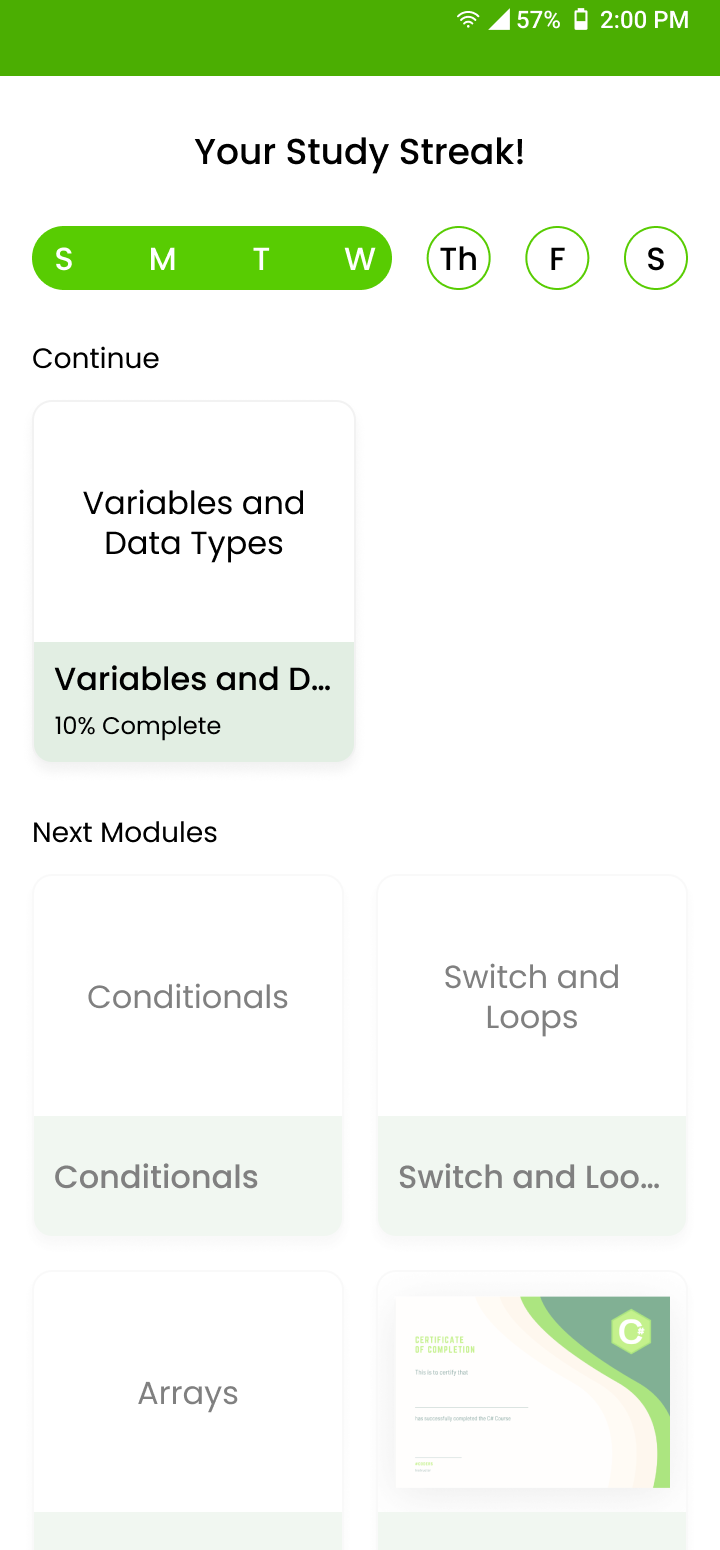
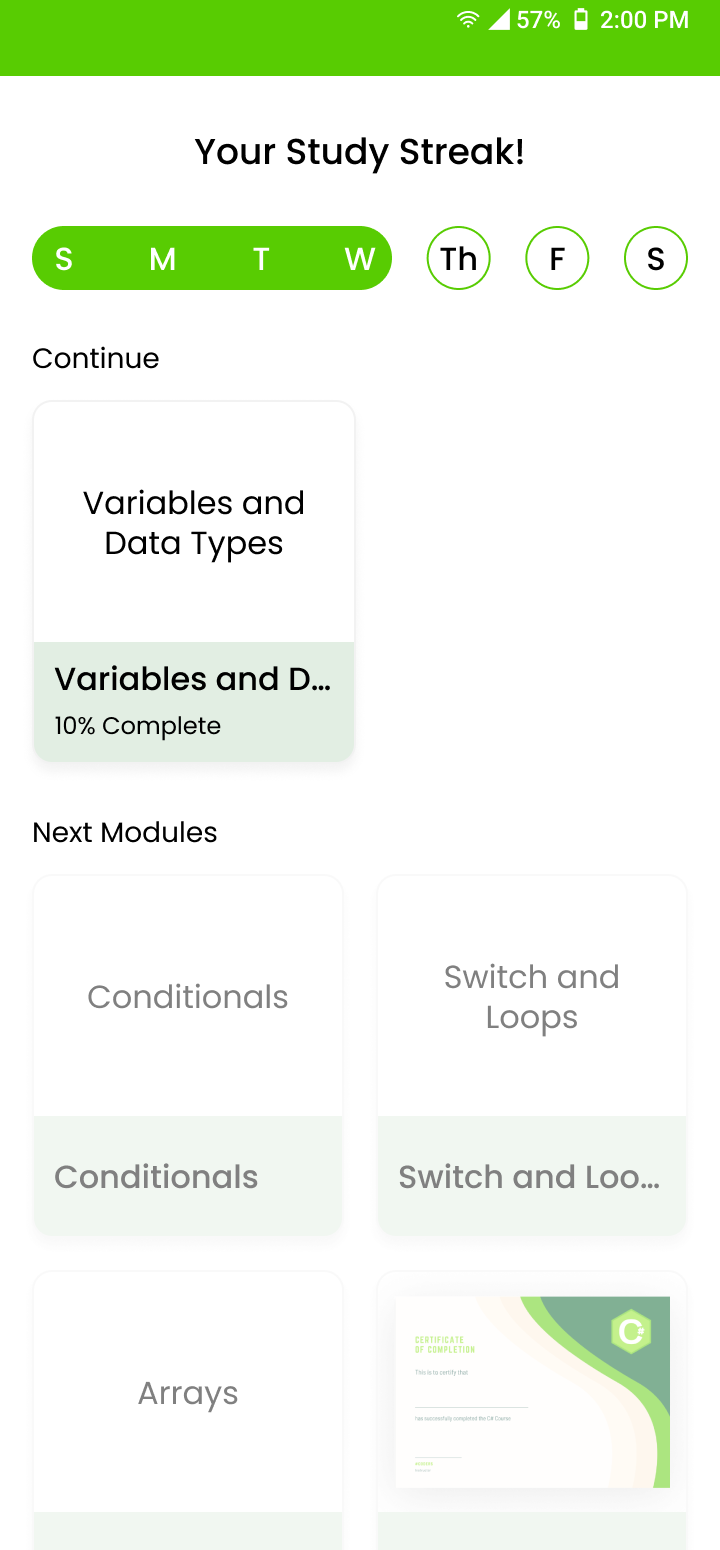
Code app polished

Changed region(s): [[0.0, 0.0, 1.0, 0.0619]]

diff --git a/Code app, case study.html b/Code app, case study.html
@@ -26,14 +26,14 @@ h1,h2,h3{width:100%;font-family:var(--display);letter-spacing:-.02em;margin:0}
 h1{font-size:clamp(2.6rem,6vw,4.4rem);line-height:1}
 h2{font-size:clamp(1.7rem,3.4vw,2.4rem);line-height:1.12;margin-bottom:1rem}
 h3{font-size:1.15rem;line-height:1.3}
-section{padding-top:clamp(3.5rem,8vw,6rem)}
+section{padding-top:32px}
 .lede{color:var(--muted);margin:1rem 0 2rem}
 p{width:100%;margin:0 0 1rem}
 .prose{width:100%;max-width:none}
 .muted{color:var(--muted)}
 
 /* 1 hero */
-.hero{display:grid;grid-template-columns:1.1fr .9fr;gap:clamp(1.5rem,5vw,4rem);align-items:center;padding-top:clamp(2rem,6vw,4rem)}
+.hero{display:grid;grid-template-columns:1.1fr .9fr;gap:clamp(1.5rem,5vw,4rem);align-items:center;padding-top:32px}
 @media (max-width:860px){.hero{grid-template-columns:1fr}}
 .brief{margin:2rem 0 0;display:grid;gap:1.1rem}
 .brief dt{font:600 1rem var(--display);color:var(--accent)}
@@ -128,7 +128,7 @@ table{border-collapse:collapse;width:100%;font-size:1rem}th,td{text-align:left;p
 .mx{display:grid;grid-template-columns:1fr 1fr;gap:.75rem;margin-top:1.5rem}@media (max-width:700px){.mx{grid-template-columns:1fr}}
 .mx-image{grid-column:1/-1;min-height:280px;aspect-ratio:16/9;border:2px dashed var(--line);border-radius:14px;background:var(--soft);display:grid;place-items:center;color:var(--muted);font:600 1rem var(--body)}
 .mx .panel h3{font-size:1rem}.mx ul{list-style:none;padding:0;display:flex;flex-wrap:wrap;gap:.4rem}.mx li{background:var(--panel);border:1.5px solid var(--line);border-radius:8px;padding:.15rem .6rem;margin:0;font-size:.95rem}
-.mockup-slot{width:min(260px,70vw);aspect-ratio:9/16;border:4px solid #000;border-radius:30px 30px 0 0;display:grid;place-items:center;color:var(--muted);font:600 .95rem var(--body)}
+.mockup-slot{width:min(260px,70vw);height:460px;border:4px solid #000;border-radius:30px 30px 0 0;display:grid;place-items:end center;color:var(--muted);font:600 .95rem var(--body);overflow:hidden}
 .sw{display:flex;gap:1rem;flex-wrap:wrap;margin:1rem 0}.sw span{display:grid;place-items:center;width:110px;height:64px;border:1px solid #000;border-radius:10px;font:600 .85rem var(--body);color:#101820}
 .bar2{height:10px;background:#58CC02;margin:-1.4rem -1rem .8rem}.days{display:flex;gap:.25rem;justify-content:center;margin:.4rem 0 .8rem}.days span{width:24px;height:24px;border-radius:50%;display:grid;place-items:center;border:1.5px solid #285C00;font-size:.65rem}.days .on{background:#58CC02;border-color:#58CC02}
 .crd{background:#E0EAE0;border-radius:8px;padding:.6rem;margin-bottom:.5rem}.pg{height:8px;border-radius:4px;background:#D5DADD;margin:.2rem 0 .8rem}.pg span{display:block;height:100%;border-radius:4px;background:#58CC02}
@@ -213,17 +213,17 @@ body:has(.lb[open]){overflow:hidden}
   <div class="cmp">
     <div class="stage">
       <div class="mockup-slot" data-panel="a" hidden>
-        <img class="flow-image" src="" alt="Grab green option mockup" loading="lazy" decoding="async">
+        <img class="flow-image" src="/img/grab green.png" alt="Grab green option mockup" loading="lazy" decoding="async">
       </div>
       <div class="mockup-slot" data-panel="b">
-        <img class="flow-image" src="" alt="Lawn Green option mockup" loading="lazy" decoding="async">
+        <img class="flow-image" src="/img/Code app homepage.png" alt="Lawn Green option mockup" loading="lazy" decoding="async">
       </div>
       <div class="mockup-slot" data-panel="c" hidden>
-        <img class="flow-image" src="" alt="Sololearn blue option mockup" loading="lazy" decoding="async">
+        <img class="flow-image" src="/img/solo learn.png" alt="Sololearn blue option mockup" loading="lazy" decoding="async">
       </div>
     </div>
     <div><ul class="why"><li><b>Decision: Lawn Green with Poppins, in a light theme.</b><br>A light green inspired by Duolingo, which suits a friendly, encouraging learning app.</li>
-    <li><b>Two prototype iterations before I built the UI.</b><br>The prototype was presented to and approved by our professor, who acted as client.</li></ul>
+    <li><b>Two UI design iterations before I built the UI.</b><br>The designs was presented to and approved by our professor, who acted as client.</li></ul>
     <div class="sw" role="img" aria-label="Lawn Green swatch, hex 58CC02"><span style="background:#58CC02">#58CC02</span><span style="background:#E0EAE0">White Green</span><span style="background:#666;color:#fff">Storm Dust</span></div>
     <table><thead><tr><th>Style</th><th>Size</th><th>Weight</th></tr></thead><tbody><tr><td>Header One</td><td>24 px</td><td>Poppins Medium</td></tr><tr><td>Header Two</td><td>20 px</td><td>Poppins Medium</td></tr><tr><td>Body</td><td>16 px</td><td>Poppins Regular</td></tr><tr><td>Small</td><td>14 px</td><td>Poppins Light</td></tr></tbody></table></div>
   </div>
